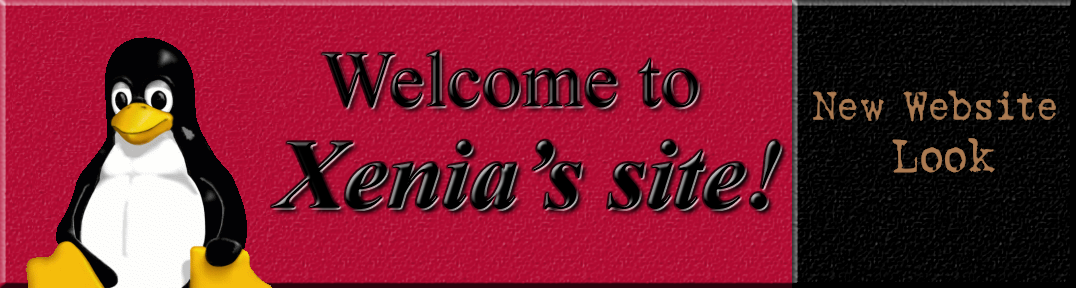
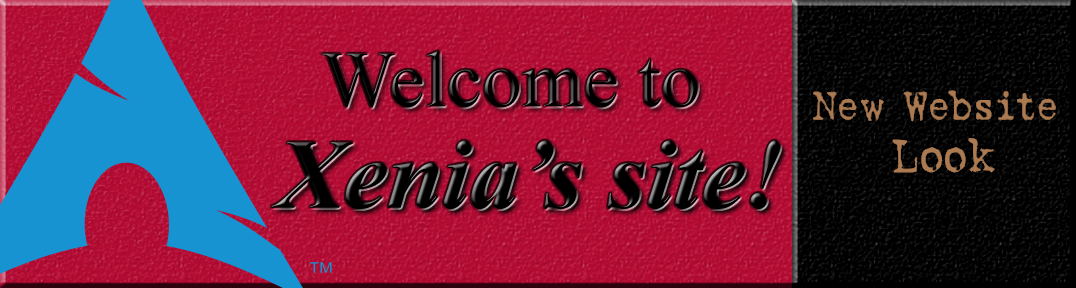
Tux and ACAB
- Removed all references to Tux due to an upcoming idea I have with @yourdevilfriends
- Removed the ACAB button thing on the index as I felt weird having a serious real-world reference to the police on this site. IDK, I just don't think this is the right place for it.

Changed region(s): [[0.0, 0.0, 0.3067, 1.0]]

diff --git a/index.html b/index.html
@@ -66,7 +66,6 @@
 						</center>
 						
 					<hr>
-						<p><center><img src="acab.png" alt="Banner that says A.C.A.B. and 13 12 on - art by shroom.ink" title="Banner that says A.C.A.B. and 13 12 on - art by shroom.ink"></center></p>
 
 										<p><center><img src="aifree.svg" width="96" height="96" alt="Sticker that says 'AI Free', made by Kilcat." title="Sticker that says 'AI Free', made by Kilcat."> <a href="myrss.xml"><img src="rss.png" width="96" height="96" alt="Yellow and orange RSS logo." title="Yellow and orange RSS logo."></a> <a href="mailto:xenia@thedigitallancabin.net"><img src="WP20Symbols_mail.svg" width="96" height="96" alt="Post box. Click here to send Xenia an Email." title="Post box. Click here to send Xenia an Email."></a></center></p>
 					

diff --git a/banner/index.html b/banner/index.html
@@ -25,7 +25,6 @@ Contents of this folder:
 * <a href="banner_gimp_compat.psd">banner_gimp_compat.psd</a>: For GIMP
 * <a href="banner_temp.png">banner_temp.png</a>: Banner that's a PNG
 * <a href="banner_temp_blank.png">banner_temp_blank.png</a>: No Xenia!
-* <a href="banner_temp_tux.png">banner_temp_tux.png</a>: Now with Tux >:D
 * <a href="love_letter_tw.zip">love_letter_tw.zip</a>: ZIP for the font used, Love Letter TW</pre>                </td>
             </tr>
         </table>
